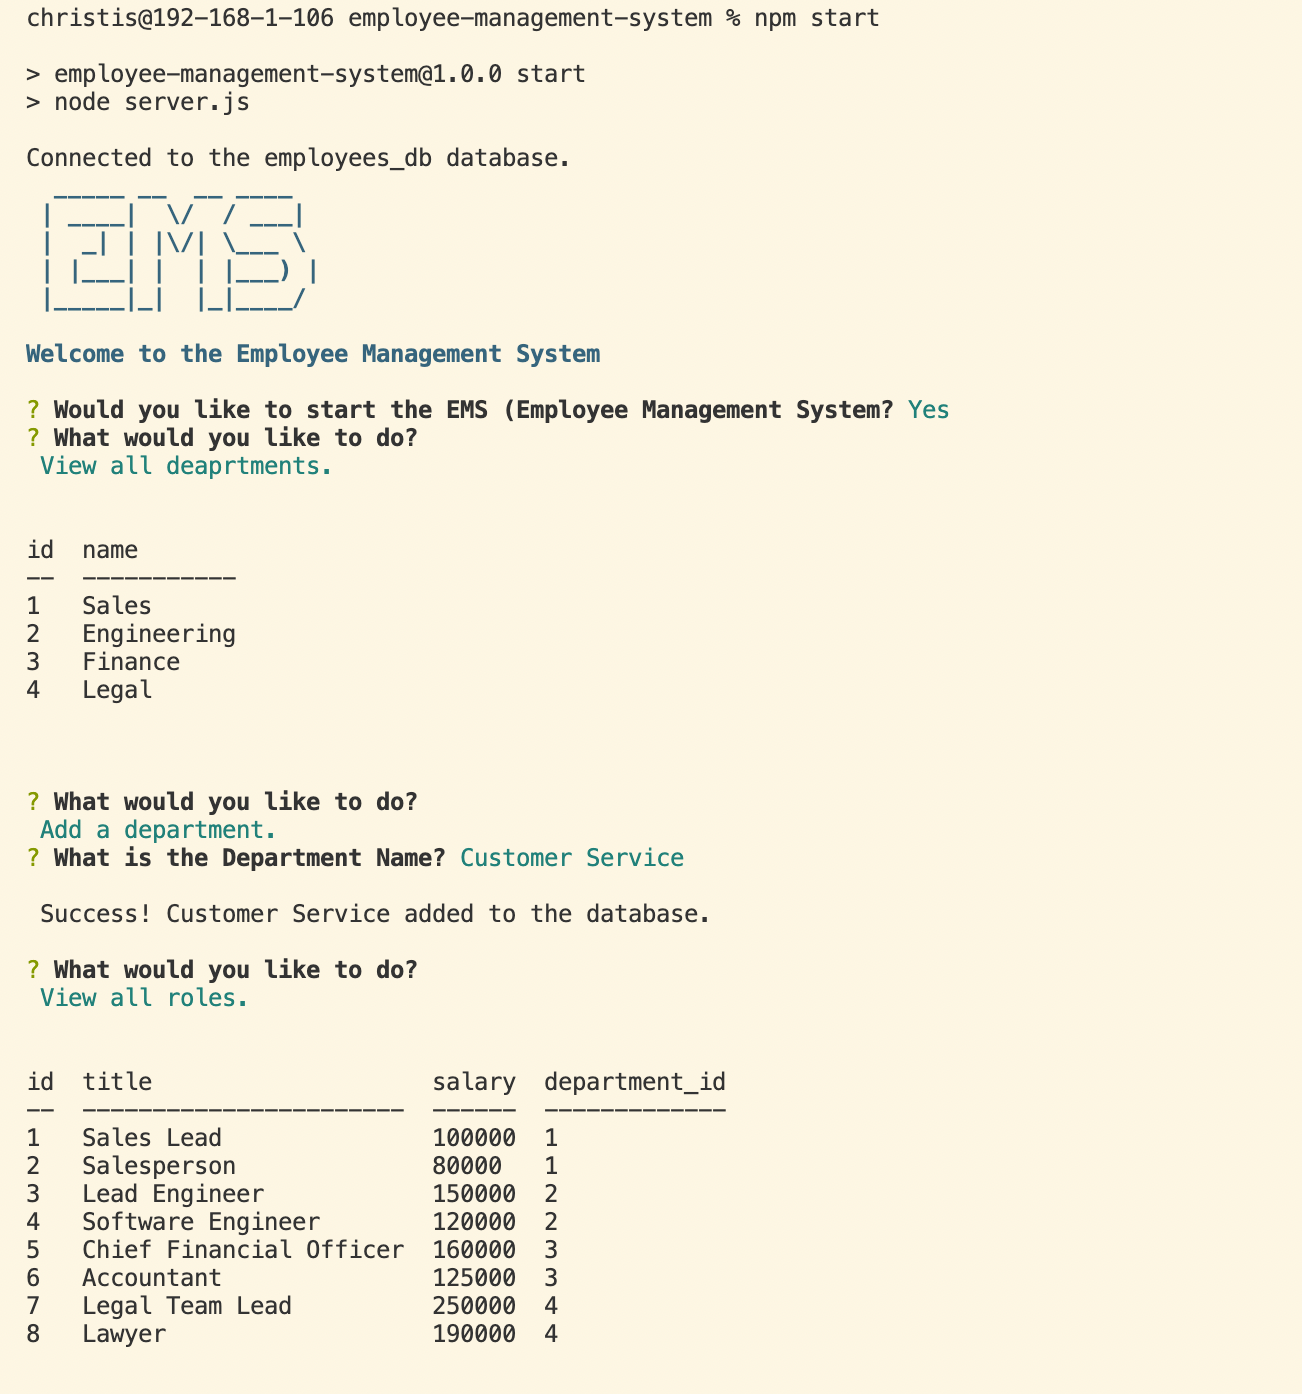
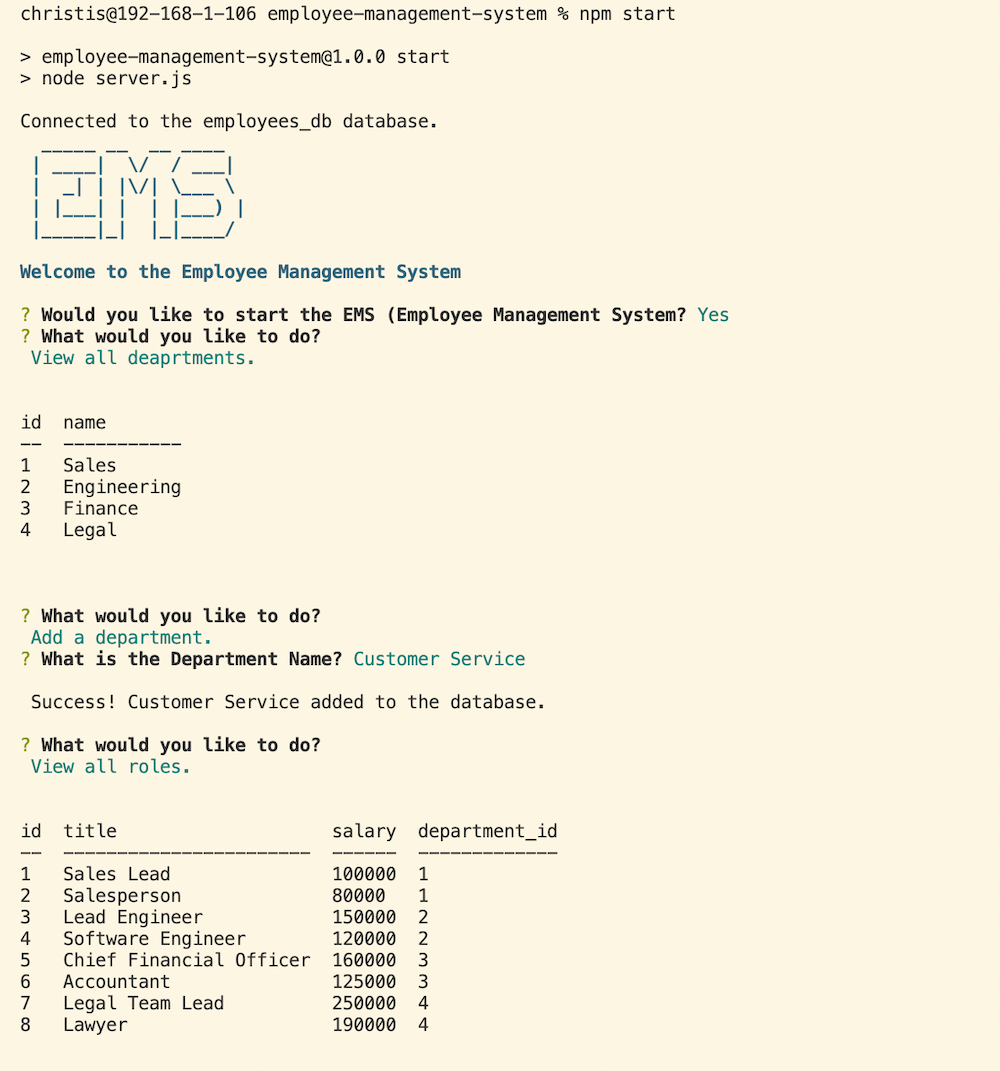
Updated readme, added images for readme.

diff --git a/README.md b/README.md
@@ -1,1 +1,80 @@
 # Employee Management System
+![License: MIT](https://img.shields.io/badge/License-MIT-yellow.svg?style=flat-square)
+
+A command-line Employee Management System that allows users to create, manage and maintain their employee database. This application allows a user to: view and add departments, view and add roles, view and add employees, update employee role and delete an employee.
+
+Future features could include the ability to delete roles and departments, update roles and departments and include a department budget.
+
+## Table of Contents
+
+* [Technologies](#technologies)
+* [Installation](#installation)
+* [Usage](#usage)
+* [Live Demo](#live-demo)
+* [Resources](#resources)
+* [License](#license)
+
+## Technologies
+This application was built using the following technologies and languages:
+* [Node.js](https://nodejs.org/en/)
+* [Inquirer](https://www.npmjs.com/package/inquirer)
+* [MySQL 2 NPM](https://www.npmjs.com/package/mysql2)
+* [dotenv NPM](https://www.npmjs.com/package/dotenv)
+* [Figlet NPM](https://www.npmjs.com/package/figlet)
+* [Console.table NPM](https://www.npmjs.com/package/console.table)
+* JavaScript
+* SQL
+
+## Installation
+
+To run the Employee Management System, you'll first need to clone the [employee-management-system repo on GitHub](https://github.com/jazzberriess/employee-management-system) or download the zipfile, then install node.js, the inquirer package and other dependencies.
+
+To install the dependencies included in this repo, navigate to the root directory of the cloned or downloaded repo. In either your terminal, command line or using the integrated terminal in your code editor of choice, enter the following command:
+
+`npm i`
+
+OR
+
+`npm install`
+
+If you're including the `package-lock.json` file from this repo in your own files, then run the following command instead:
+
+`npm ci`
+
+## Usage
+
+To use the Employee Management System , clone or download the repo and install the dependencies as instructed above.
+
+Next, enter the following command in either your terminal, command line or using the integrated terminal in your code editor of choice:
+
+`npm start`
+
+Then, answer the prompts.
+
+Responses will be printed in the terminal.
+
+## Live Demo
+### [Video demonstration of the application being used](https://drive.google.com/file/d/17jO5wutyJETD72RNoZlQsHjpnQ36mgR2/view) in the integrated terminal in VS Code.
+
+
+### Screenshot of the splash page and one of the resposnes:
+![Screenshot of the application splash page](./images/employee-management-system-screenshot.png)
+
+## Resources
+* [Inquirer Documentation](https://github.com/SBoudrias/Inquirer.js#readme)
+* [MDN Docs - JavaScript](https://developer.mozilla.org/en-US/docs/Web/JavaScript/Reference)
+* [MySQL Tutorial](https://www.mysqltutorial.org/)
+* [SQLZoo](https://sqlzoo.net/wiki/SQL_Tutorial)
+* [What is a self-join in SQL](https://learnsql.com/blog/what-is-self-join-sql/)
+* [How to Learn SQL Joins](https://learnsql.com/blog/learn-and-practice-sql-joins/)
+* [Everything you ever wanted to know about ANSI excape codes](https://notes.burke.libbey.me/ansi-escape-codes/)
+* [Bash tips: Colors and formatting](https://misc.flogisoft.com/bash/tip_colors_and_formatting)
+* Class notes and recordings
+* Ask BCS
+
+
+## License
+
+This project is covered under the [MIT license](https://github.com/jazzberriess/employee-management-system/blob/main/LICENSE)
+
+&copy; 2022 Christi Scappatura
